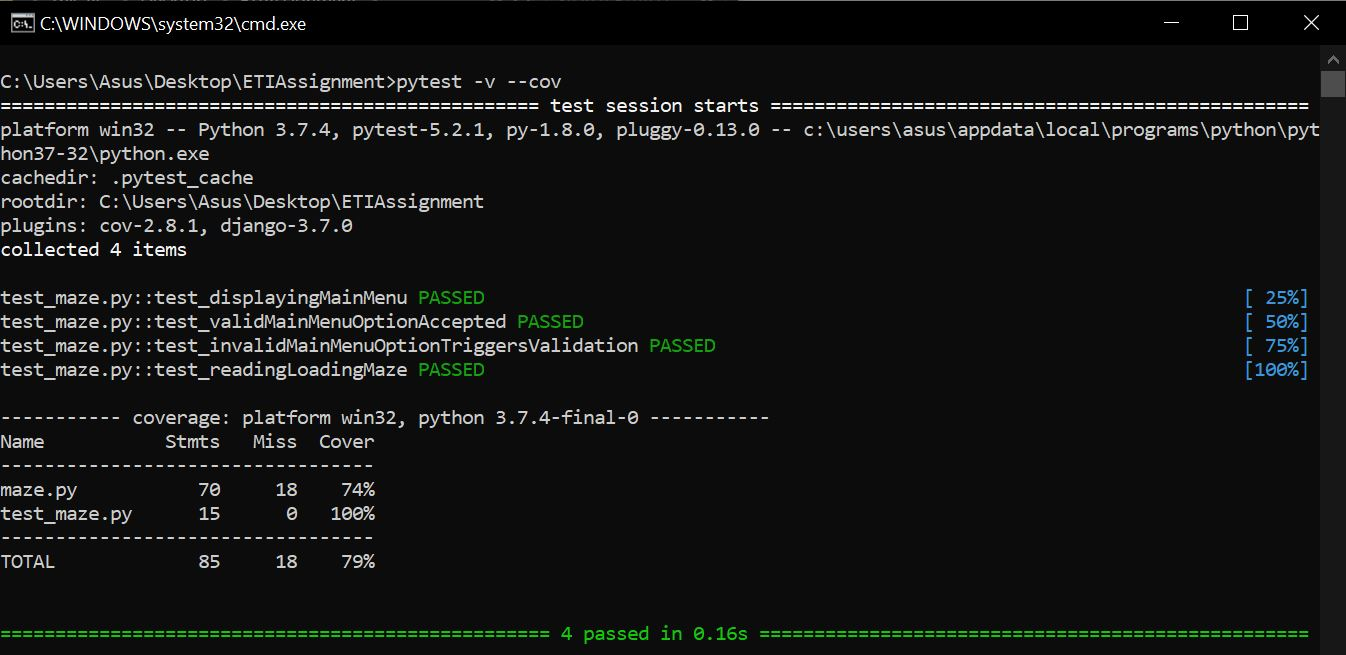
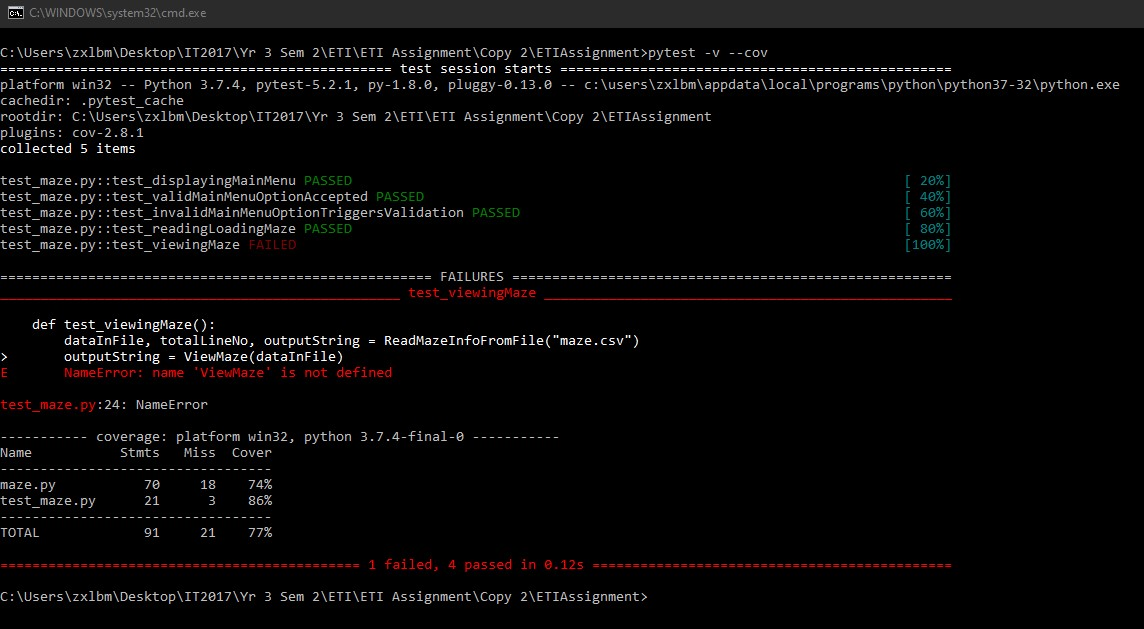
#2 Updated test cases and test outputs for 5.0

diff --git a/test_maze.py b/test_maze.py
@@ -18,6 +18,13 @@ def test_invalidMainMenuOptionTriggersValidation(capfd):
 def test_readingLoadingMaze():
     dataInFile, totalLineNo, outputString = ReadMazeInfoFromFile("maze.csv")
     assert "Number of lines read: " + str(totalLineNo) in outputString
+
+def test_viewingMaze():
+    dataInFile, totalLineNo, outputString = ReadMazeInfoFromFile("maze.csv")
+    outputString = ViewMaze(dataInFile)
+    assert "Please load a maze first!" not in outputString
+    assert "'X'" in outputString
+    assert "'O'" in outputString
     
     
 
